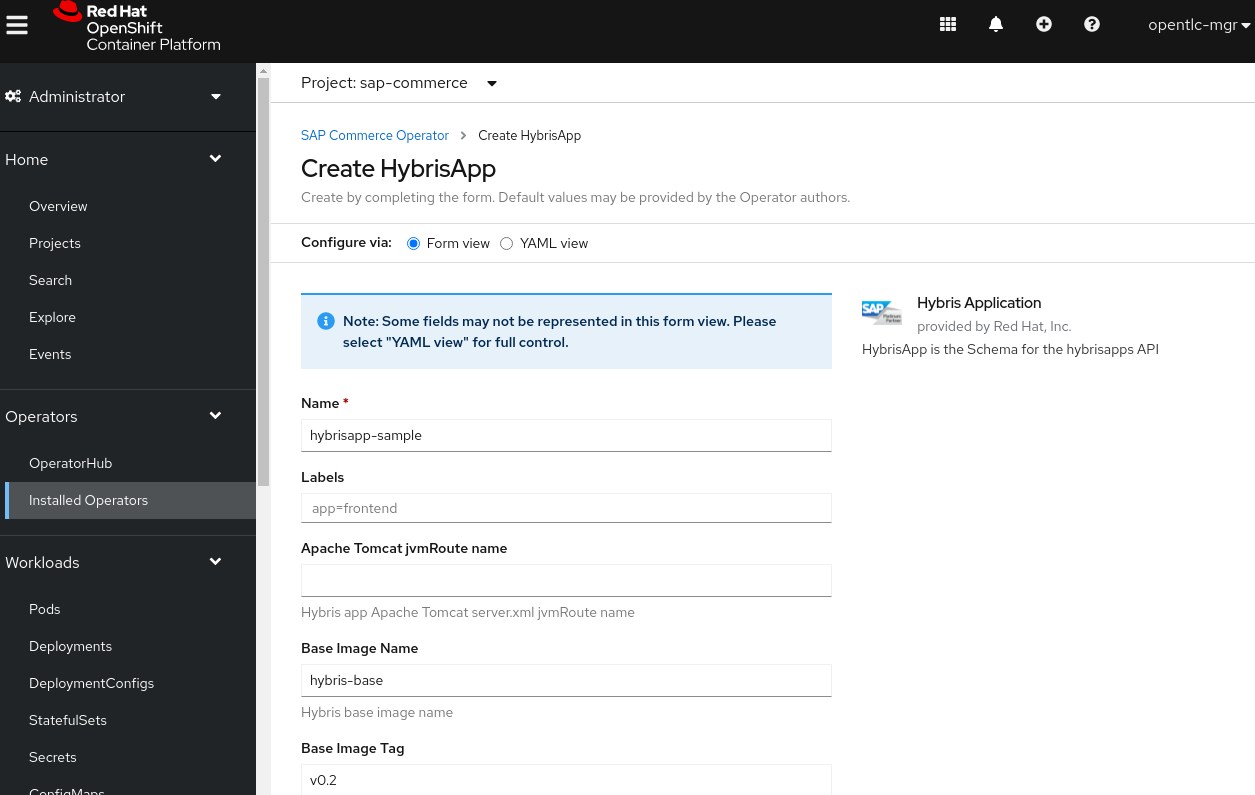
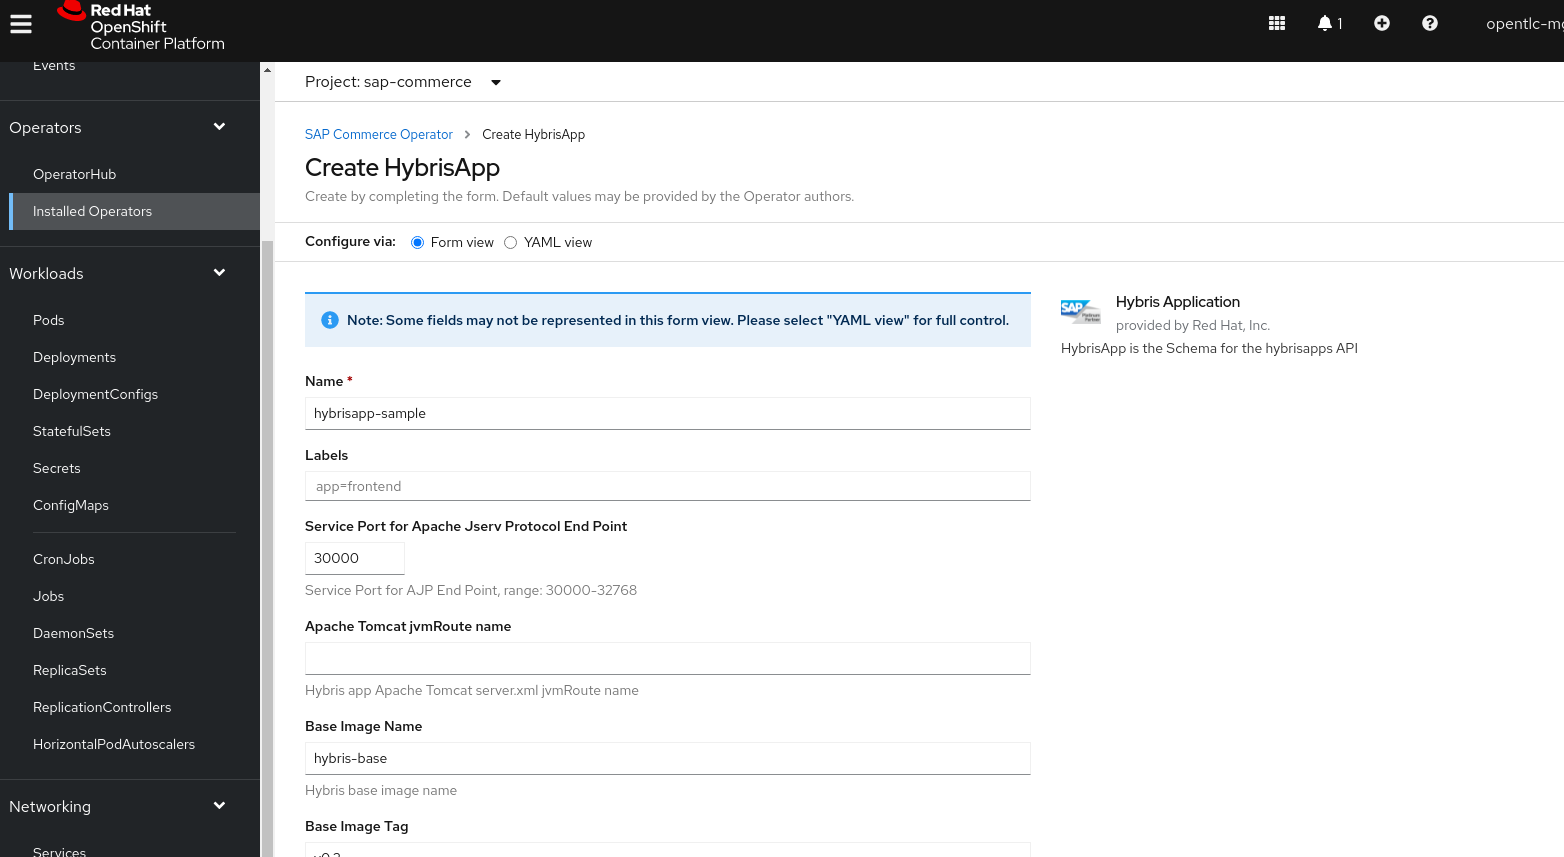
changed to use nodeport service and added new port for ajp

diff --git a/controllers/hybrisapp_controller.go b/controllers/hybrisapp_controller.go
@@ -479,9 +479,16 @@ func (r *HybrisAppReconciler) ensureService(hybrisApp *hybrisv1alpha1.HybrisApp,
 						TargetPort: intstr.FromInt(9002),
 						Protocol:   corev1.ProtocolTCP,
 					},
+					{
+						Name:       "8009-tcp",
+						Port:       8009,
+						TargetPort: intstr.FromInt(8009),
+						Protocol:   corev1.ProtocolTCP,
+						NodePort:   hybrisApp.Spec.AJPServicePort,
+					},
 				},
 				Selector: labelsForHybrisApp(hybrisApp.Name),
-				Type:     corev1.ServiceTypeClusterIP,
+				Type:     corev1.ServiceTypeNodePort,
 			},
 		}
 		// Set HybrisApp instance as the owner and controller
@@ -674,6 +681,10 @@ func (r *HybrisAppReconciler) createDeploymentConfigForHybrisApp(hybrisApp *hybr
 								},
 								{
 									ContainerPort: 9002,
+									Protocol:      corev1.ProtocolTCP,
+								},
+								{
+									ContainerPort: 8009,
 									Protocol:      corev1.ProtocolTCP,
 								},
 							},

diff --git a/api/v1alpha1/hybrisapp_types.go b/api/v1alpha1/hybrisapp_types.go
@@ -62,6 +62,11 @@ type HybrisAppSpec struct {
 	// +operator-sdk:csv:customresourcedefinitions:type=spec,xDescriptors={"urn:alm:descriptor:com.tectonic.ui:text"}
 	HybrisANTTaskNames string `json:"hybrisANTTaskNames,omitempty"`
 
+	// Service Port for AJP End Point, range: 30000-32768
+	// +operator-sdk:csv:customresourcedefinitions:type=spec,displayName="Service Port for Apache Jserv Protocol End Point"
+	// +operator-sdk:csv:customresourcedefinitions:type=spec,xDescriptors={"urn:alm:descriptor:com.tectonic.ui:text"}
+	AJPServicePort int32 `json:"aJPServicePort,omitempty"`
+
 	// Pod Healthy Probe path for startup and readiness probe
 	// +operator-sdk:csv:customresourcedefinitions:type=spec,xDescriptors={"urn:alm:descriptor:com.tectonic.ui:hidden"}
 	PodHealthyProbePath string `json:"podHealthyProbePath,omitempty"`

diff --git a/docs/README.md b/docs/README.md
@@ -119,6 +119,8 @@ This operator manages the process for building and deploying the SAP Commerce ap
         8. Hybris ANT Task Names: a custom list of Hybris ANT tasks to execute. This entry default to ANT tasks 'clean,all'. The user can override the default here
        <img src="images/hybrisapp-lennoxpoc-1.png" width="1080">
            
+        9. Service Port for Apache Jserv Protocol End Point: The port number used for AJP NodePort Service.
+           
     4. Hidden fields (only show in YAML view) to customize the Pod Startup probe:
         1. podHealthyProbePath: the HTTP GET end point where the probe is performed
     
